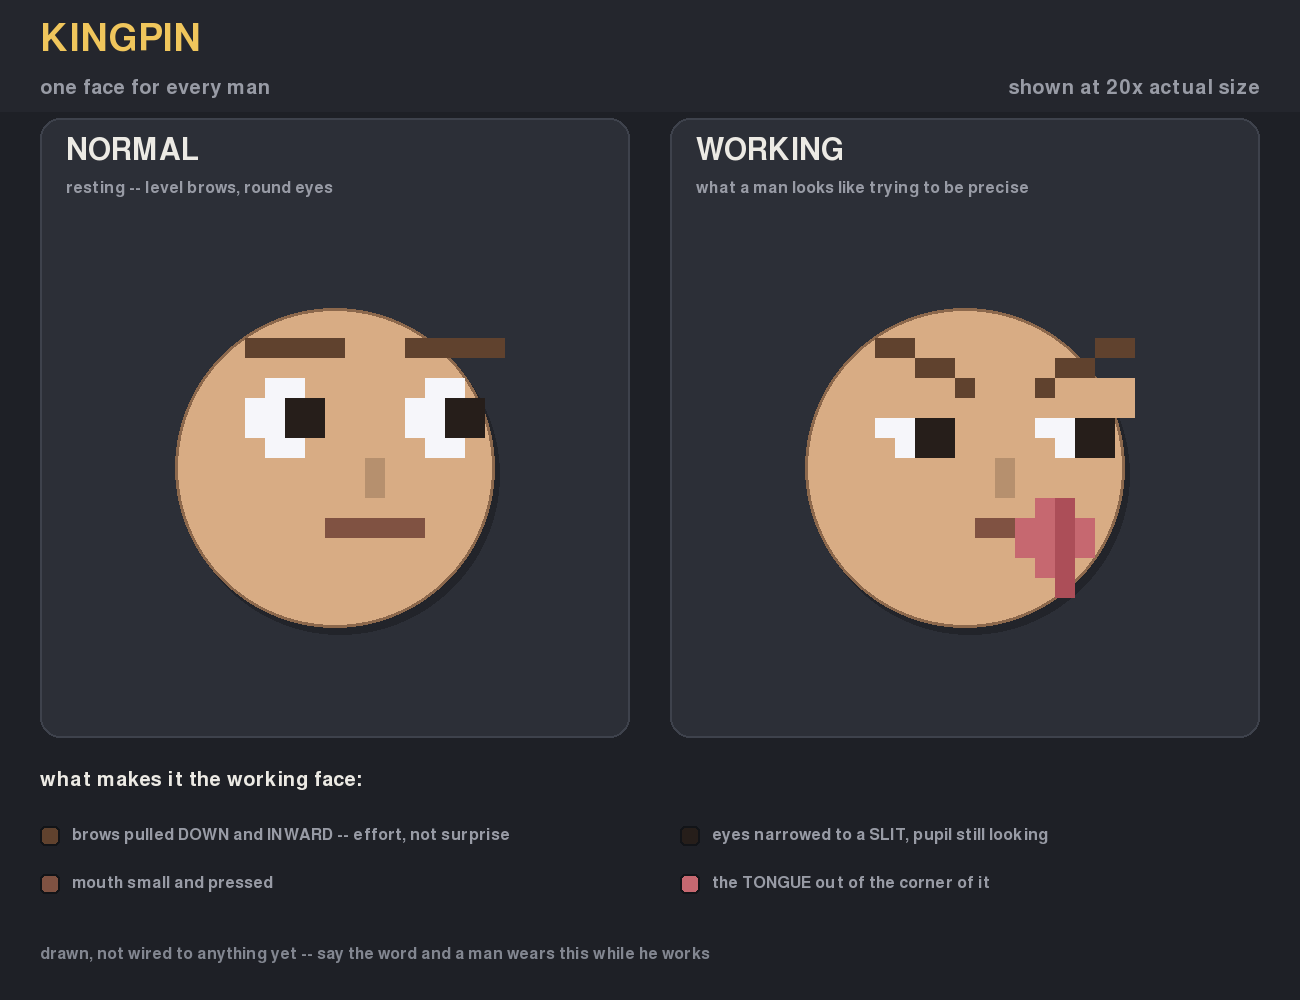
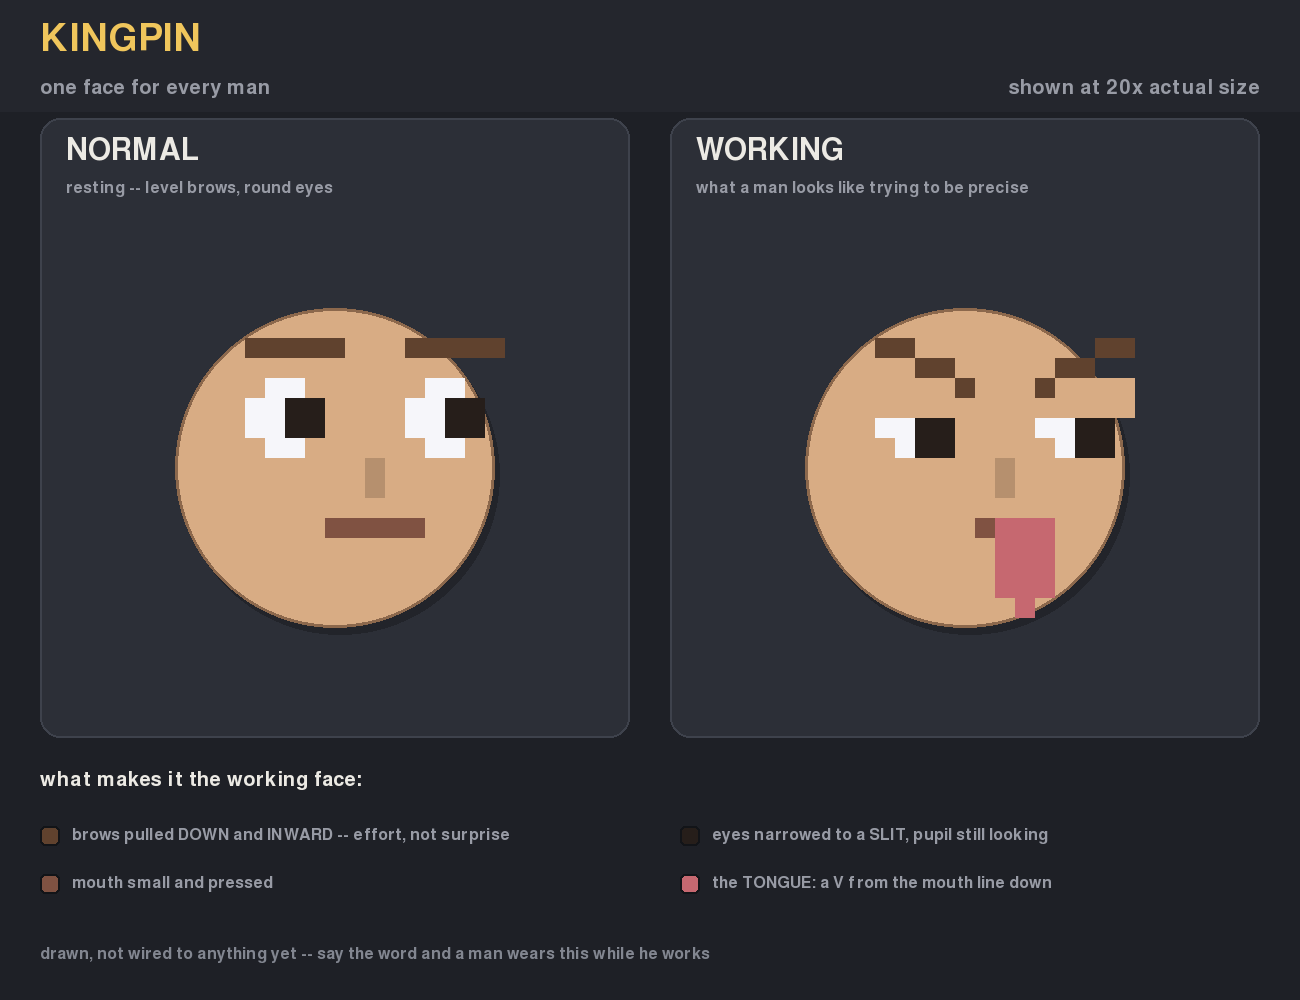
face: the tongue is a small V off the mouth line, not a disc
Too big, and because the disc was centred a pixel BELOW the mouth its top
edge poked a pixel ABOVE the mouth line -- so the tongue looked like it grew
out of the man's upper lip. It is a small filled V now: the flat top sits
exactly on the mouth row at the corner of the mouth, and only the point goes
below. 10 pixels instead of 15.

Changed region(s): [[0.7385, 0.496, 0.8615, 0.62], [0.6154, 0.868, 0.8, 0.899]]

diff --git a/face.py b/face.py
@@ -131,11 +131,16 @@ def _render(screen, hx: float, hy: float, r: int, fx: float, fy: float,
 
     # AND THE TONGUE, OUT OF THE CORNER OF IT.
     if focusing:
-        tr = max(2, int(round(r * 0.24)))
-        tx = ix + hw + tr
-        pygame.draw.circle(screen, TONGUE, (tx, my + 1), tr)
-        pygame.draw.line(screen, (172, 78, 88), (tx, my + 1 - tr),
-                         (tx, my + 1 + tr), 1)
+        # A SIMPLE V, HANGING FROM THE MOUTH LINE DOWNWARD. It was a disc
+        # centred a pixel BELOW the mouth, which put its top edge a pixel
+        # ABOVE the mouth -- so the tongue looked like it grew out of the
+        # man's upper lip. The flat top of the V now sits exactly on the
+        # mouth line and only the point goes below it.
+        tw = max(1, int(round(r * 0.18)))      # half its width at the mouth
+        th = max(2, int(round(r * 0.50)))      # how far down it hangs
+        tx = ix + hw                           # at the corner of the mouth
+        pygame.draw.polygon(screen, TONGUE,
+                            ((tx - tw, my), (tx + tw, my), (tx, my + th)))
 
 
 def draw(screen, hx: float, hy: float, r: int, fx: float = 0.0,
